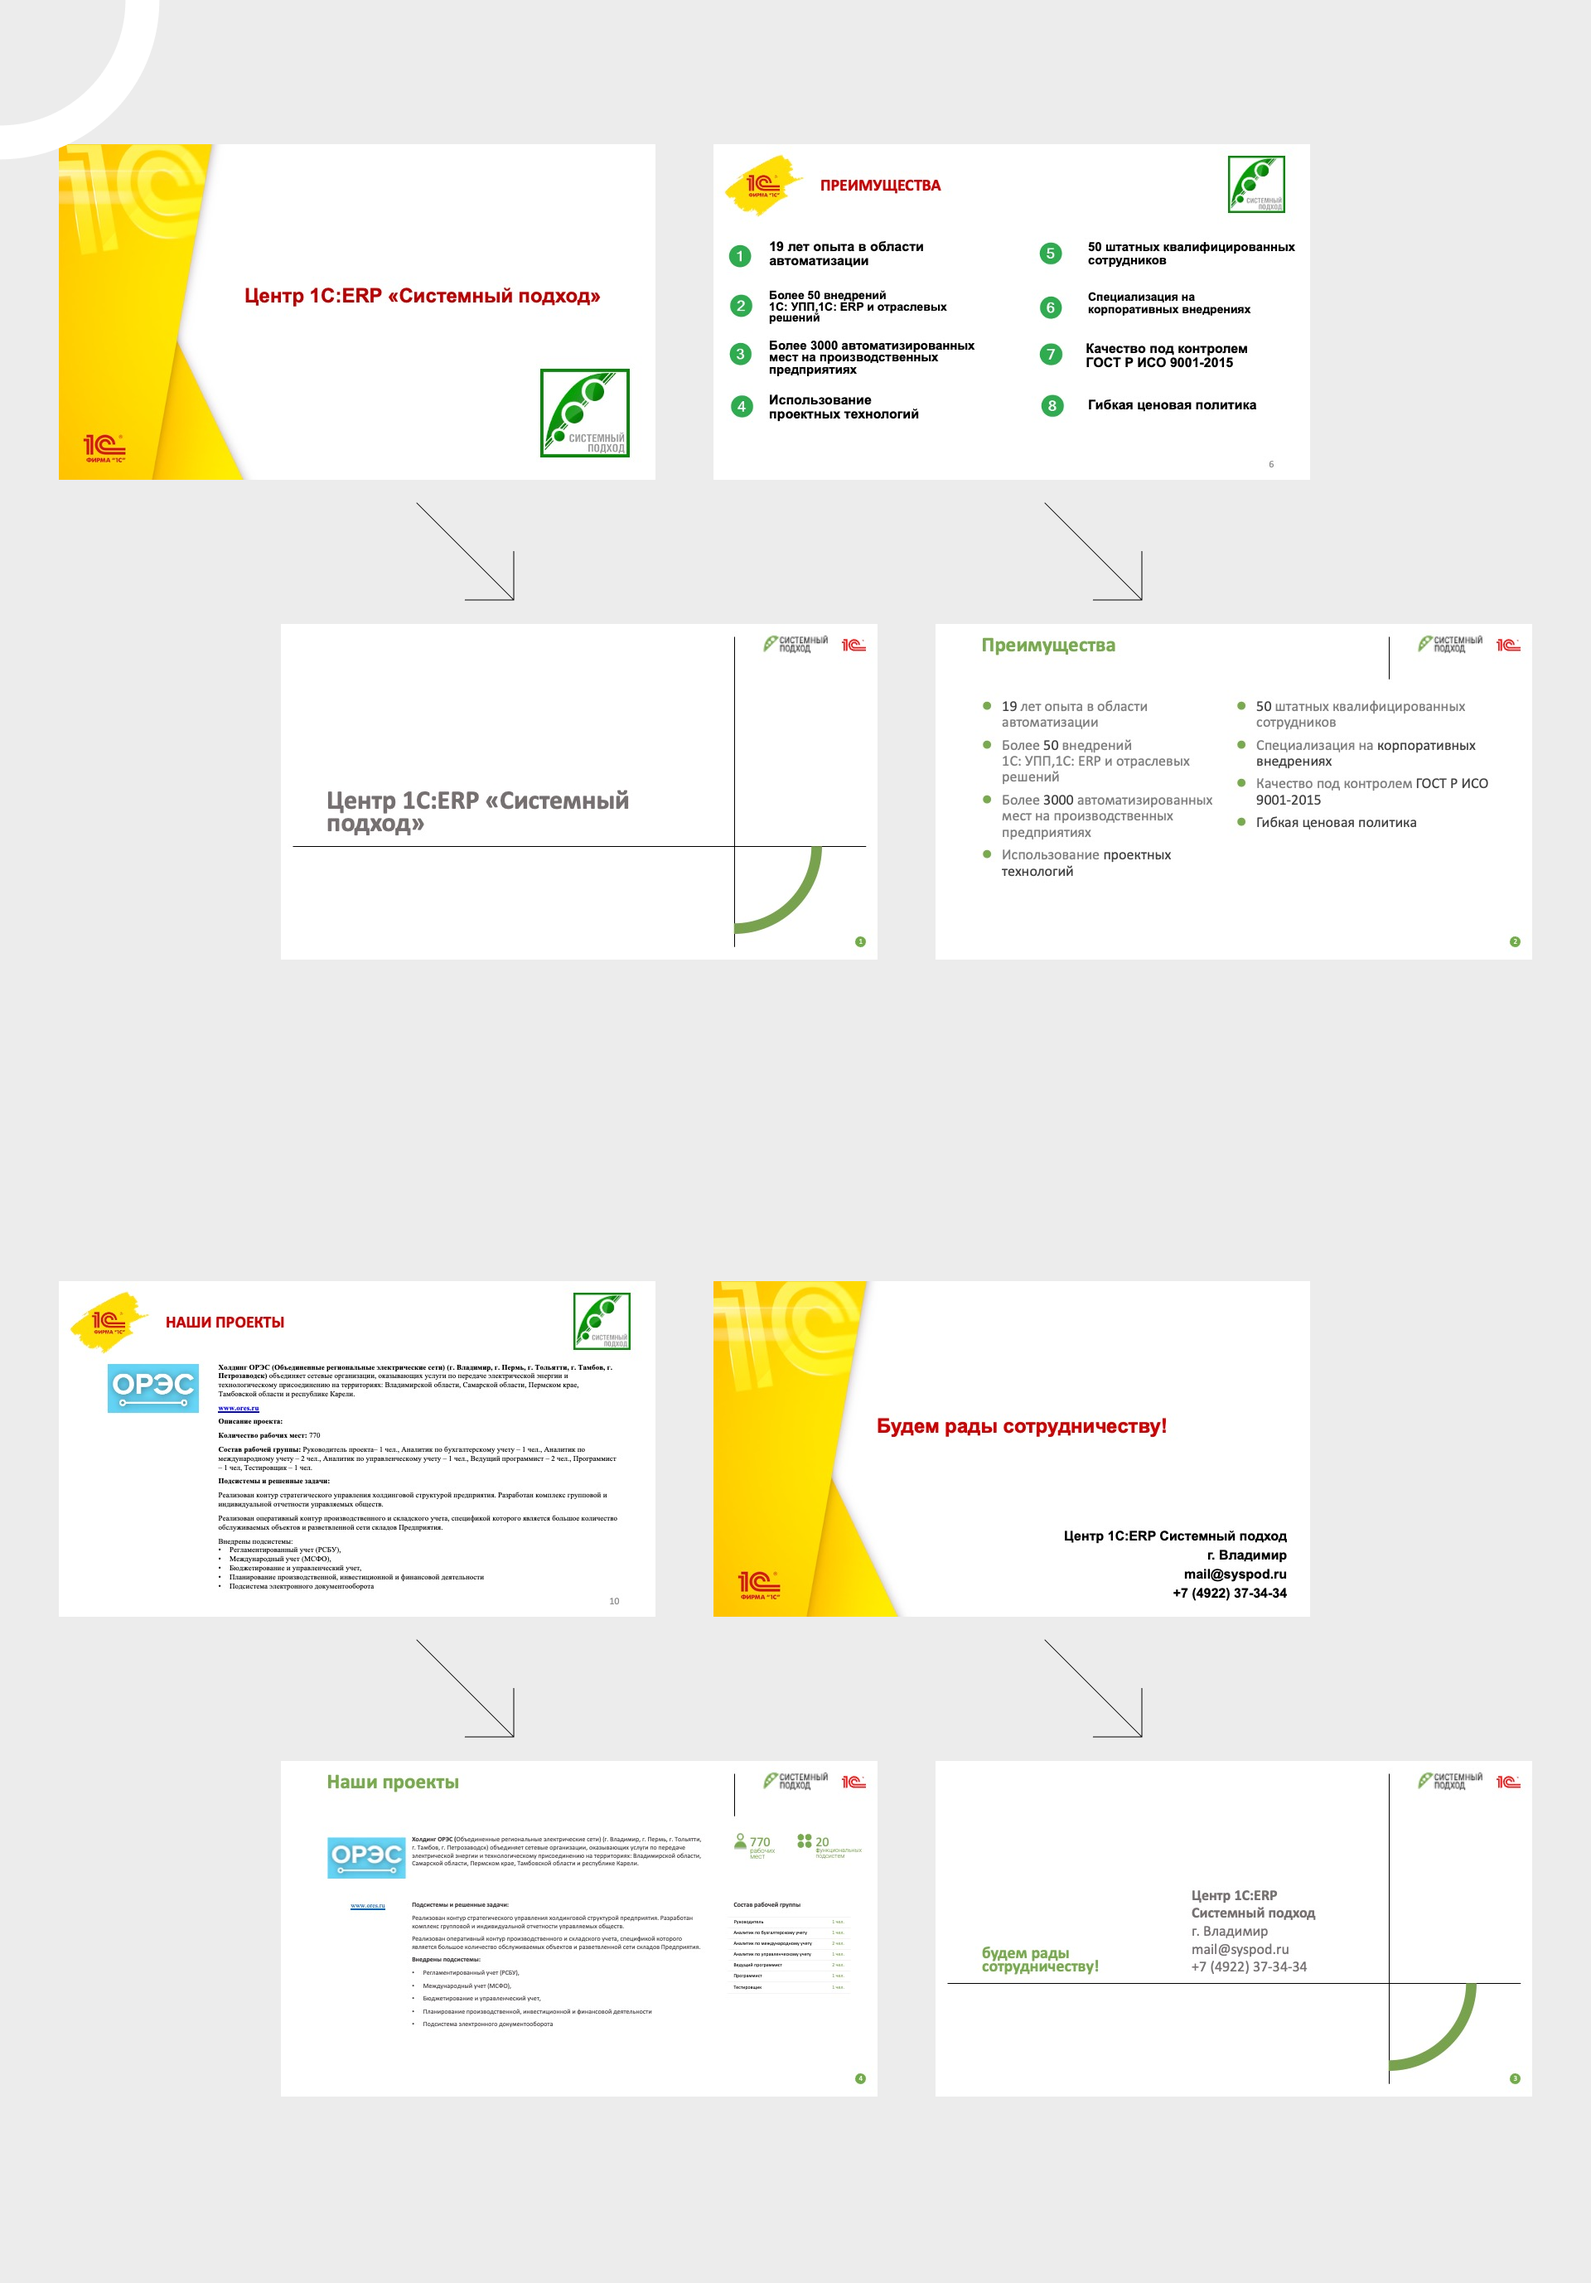
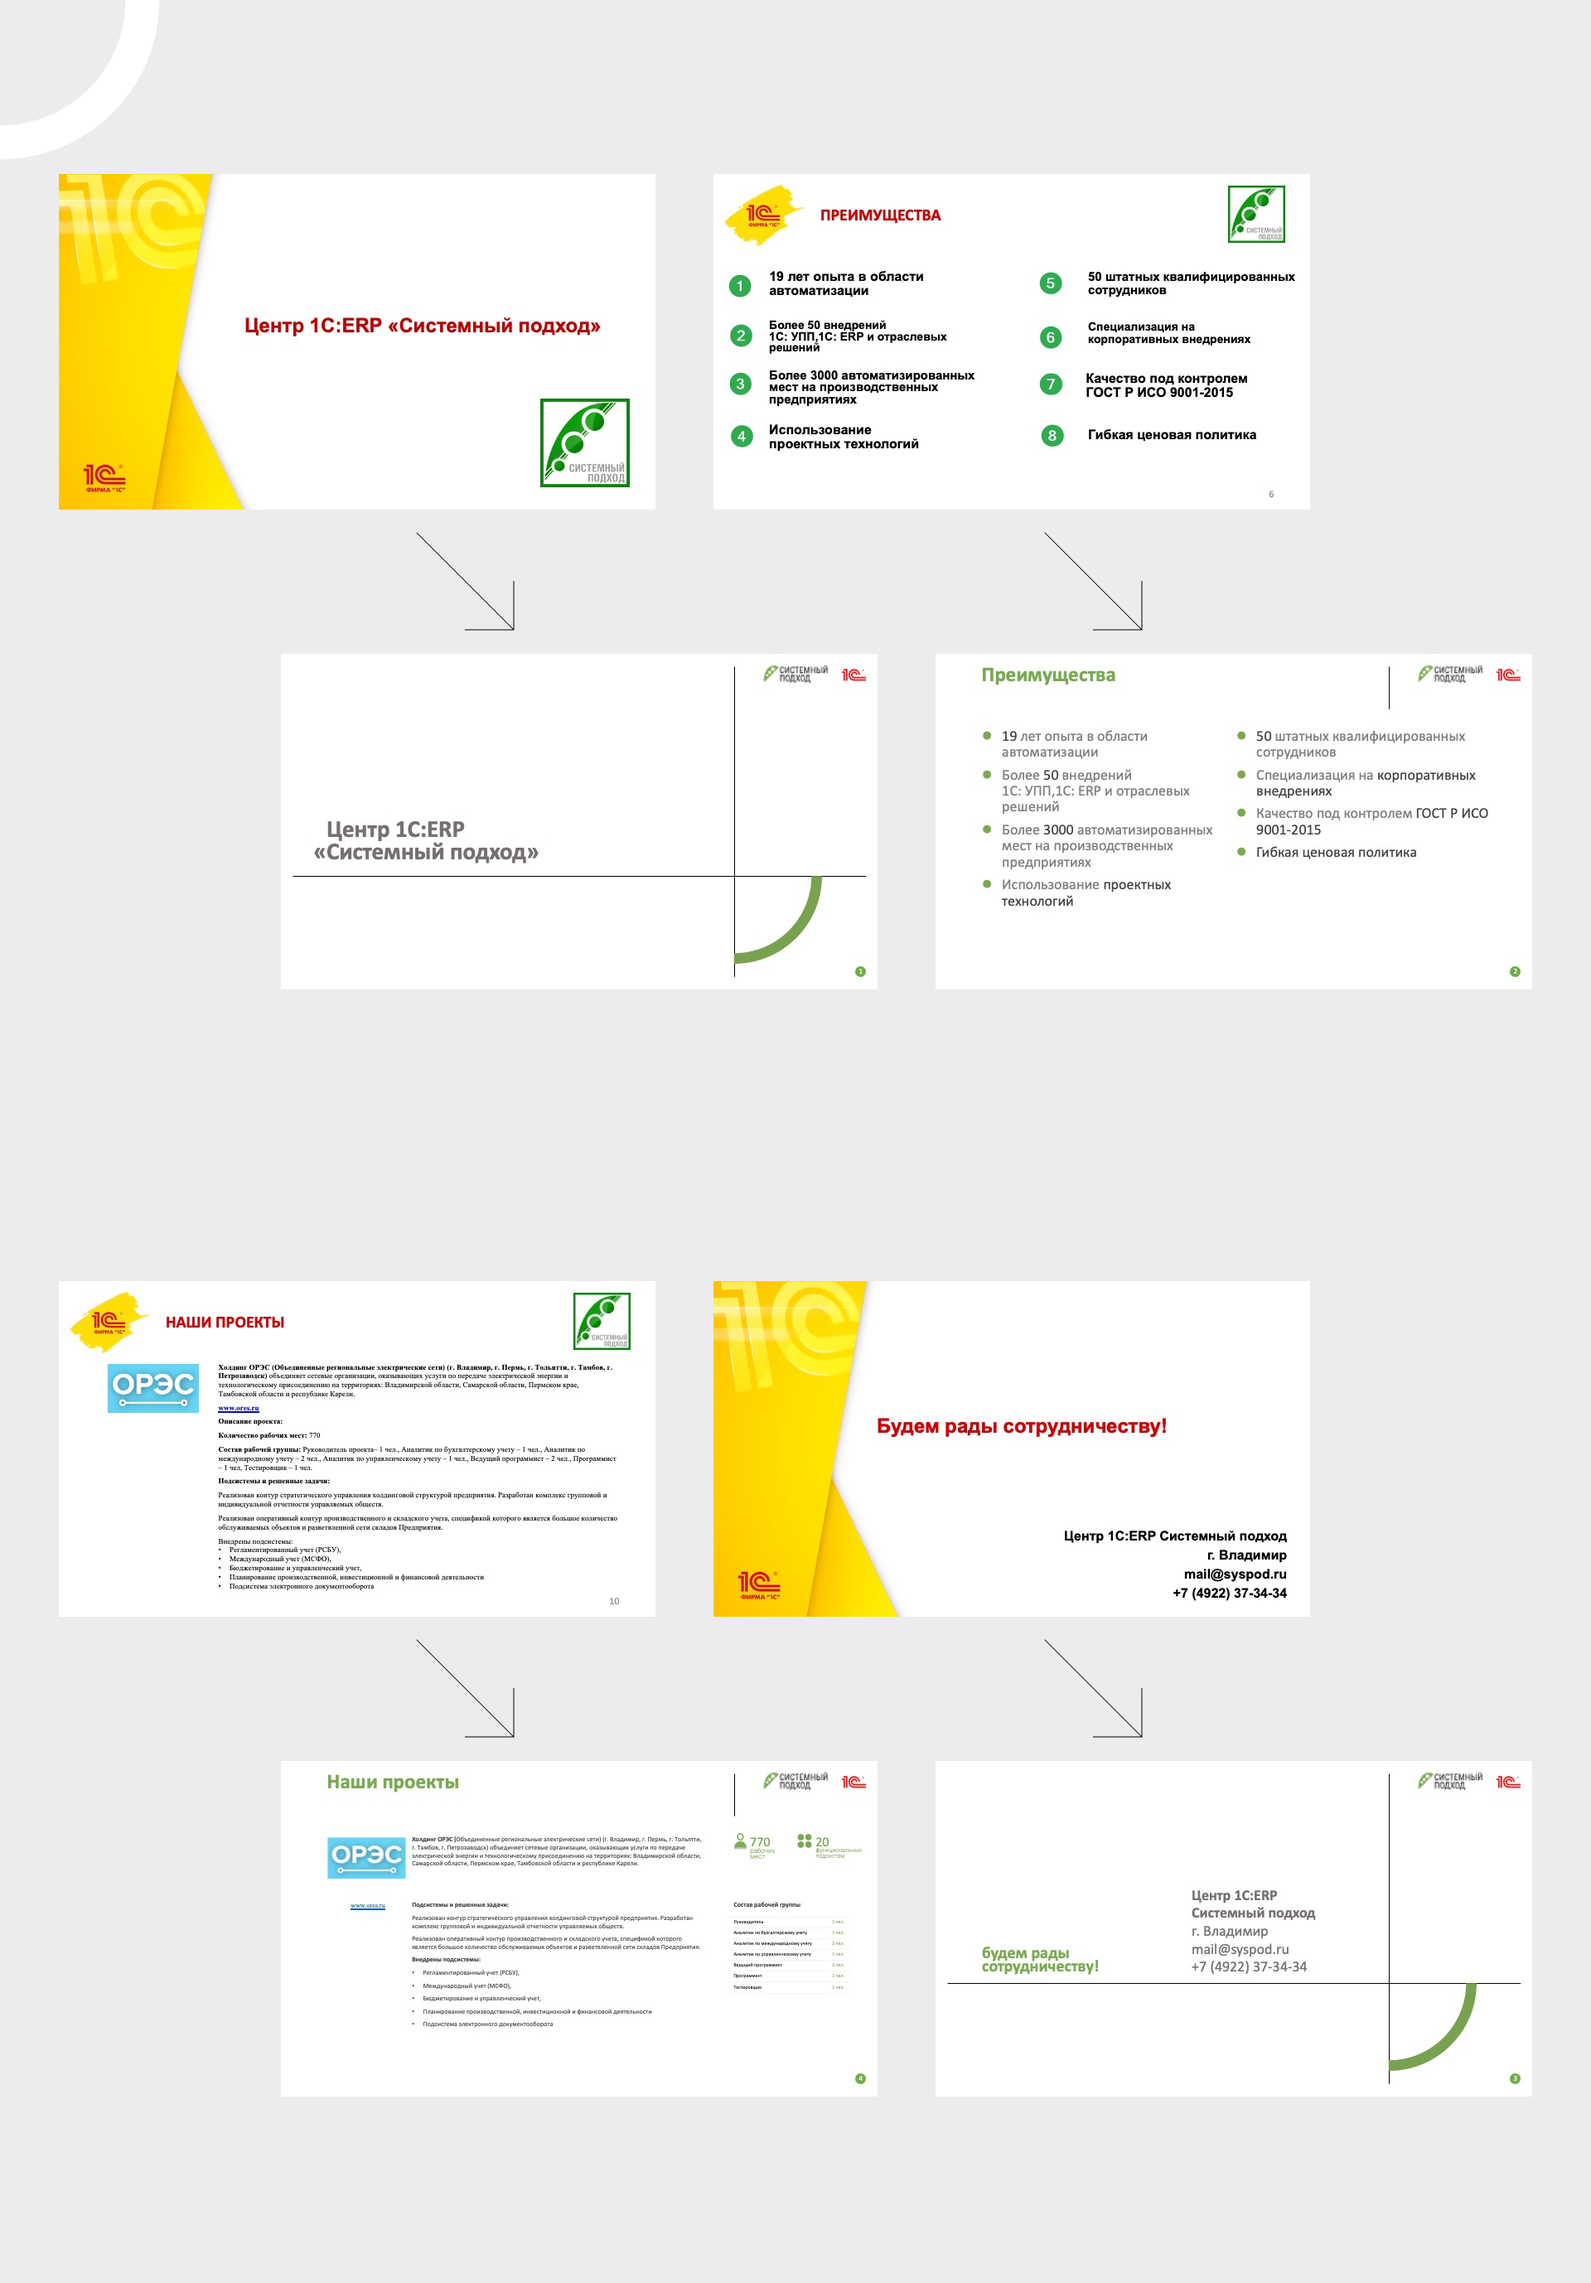
Syspod 3

diff --git a/project14.html b/project14.html
@@ -5,7 +5,7 @@
     <meta name="viewport" content="width=device-width, initial-scale=1.0">
     <link rel="stylesheet" href="https://cdn.jsdelivr.net/npm/bootstrap@5.3.0/dist/css/bootstrap.min.css">
     <link rel="stylesheet" href="style.css">
-    <title>Фирменный стиль «Системный подход»</title>
+    <title>Ребрендинг компании «Системный подход»</title>
     <script src="header.js" defer></script>
     <script src="footer.js" defer></script>
 </head>
@@ -14,7 +14,7 @@
 
     <main class="container mt-5 pt-5">
         <div class="project-header">
-            <h2>Фирменный стиль «Системный подход»</h2>
+            <h2>Ребрендинг компании «Системный подход»</h2>
         </div>
 
         <div class="project-description">
@@ -33,7 +33,7 @@
         <div class="row">
             <p><a href="https://syspod.ru"style="color: green;">Системный подход</a> — IT-компания по автоматизации бизнеса, ориентированная на внедрение, сопровождение и развитие
             1С-систем крупных предприятий.
-            <br><br>Они упрощают и систематизируют процесс работы заказчика. Поэтому главной метафорой для графики сталипростота и модульность.Кроме того, было желание оставить нетривиальную метафору гороха как символа системности. А также заказчик
+            <br><br>Они упрощают и систематизируют процесс работы заказчика. Поэтому главной метафорой для графики стали простота и модульность.Кроме того, было желание оставить нетривиальную метафору гороха как символа системности. А также заказчик
             хотел уделить внимание светлому пространству на носителях.</p>
             <p>Логотип стал проще и современнее — ушли лишние рамки и ненужные тени. Шрифт крупнее, контрастнее и отсылает к моноширинному шрифту, который используют разработчики в IDE.</p>
             <div class="col-md-12 mb-4">

diff --git a/index.html b/index.html
@@ -27,7 +27,7 @@
                 <a href="project14.html" class="text-decoration-none">
                     <div class="project-card">
                         <img src="images/Syspod portfolio/Frame 1.png" alt="Проект 14" class="img-fluid">
-                        <h5 class="project-title">Фирменный стиль «Системный подход»</h5>
+                        <h5 class="project-title">Ребрендинг компании «Системный подход»</h5>
                     </div>
                 </a>
             </div>

diff --git a/project-carousel.js b/project-carousel.js
@@ -17,7 +17,7 @@ document.addEventListener('DOMContentLoaded', function() {
         },
         {
             id: 'project14.html',
-            title: 'Фирменный стиль «Системный подход»',
+            title: 'Ребрендинг компании «Системный подход»',
             image: 'images/Syspod portfolio/Frame 1.png'
         },
         {
